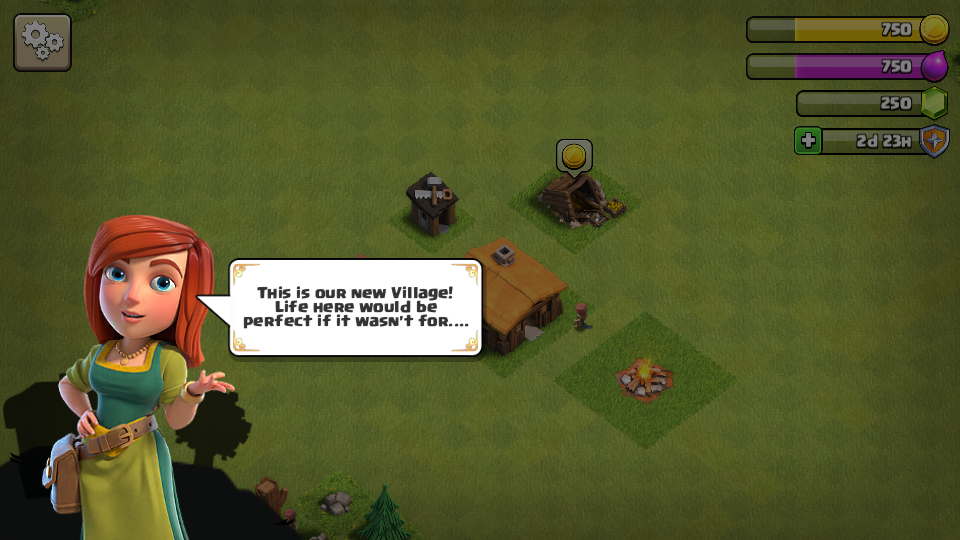
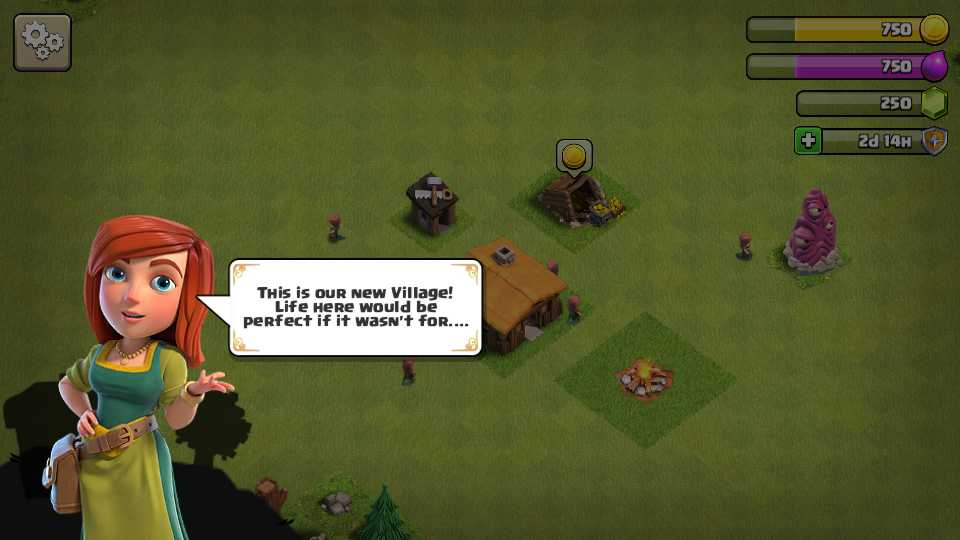
Document verified release downloads and final device captures

diff --git a/DOWNLOADS.md b/DOWNLOADS.md
@@ -6,14 +6,14 @@ Preview: USB/sda boot only, 16 GB or larger USB disk; not SD/mmc. Physical first
 
 | File | Size | SHA-256 |
 |---|---:|---|
[7 lines of base64/hex data omitted]
 
-[SHA256SUMS](https://github.com/582835293/IrisBox/releases) · [release-manifest.json](https://github.com/582835293/IrisBox/releases)
+[SHA256SUMS](https://github.com/582835293/IrisBox/releases/download/v0.1.5-preview/SHA256SUMS) · [release-manifest.json](https://github.com/582835293/IrisBox/releases/download/v0.1.5-preview/release-manifest.json)
 
 ## Drive mirrors
 

diff --git a/DOWNLOADS.zh-CN.md b/DOWNLOADS.zh-CN.md
@@ -6,14 +6,14 @@
 
 | 文件 | 大小 | SHA-256 |
 |---|---:|---|
[7 lines of base64/hex data omitted]
 
-[SHA256SUMS](https://github.com/582835293/IrisBox/releases) · [release-manifest.json](https://github.com/582835293/IrisBox/releases)
+[SHA256SUMS](https://github.com/582835293/IrisBox/releases/download/v0.1.5-preview/SHA256SUMS) · [release-manifest.json](https://github.com/582835293/IrisBox/releases/download/v0.1.5-preview/release-manifest.json)
 
 ## 网盘镜像
 

diff --git a/docs/en/comparison.md b/docs/en/comparison.md
@@ -41,3 +41,11 @@ Boot a ROM which actually omits optional components, with new userdata. Persiste
 ## 0.1.3: follow the upstream identity isolation work
 
 The previous local Iris project integrated User namespaces on 2026-10-20, after the e13 extraction checkpoint. This port follows its complete ownership/ACL/capability, metacopy, cgroup, network, display, Magisk and alarm adaptations. IrisBox additionally needs a private pre-pivot alias for its 0700 Host data root and a mapped PCM connector. Its persistent UID range is disjoint. See [the migration guide](userns.md).
+
+## 0.1.5: real applications expose isolation dependencies
+
+UID/GID maps alone do not establish usable Android storage. Trace an ordinary getExternalFilesDir request through StorageManager, vold PrepareAppDirFromRoot/SetQuotaProjectId and the kernel fileattr check. A populated project-ID map still cannot override the matched kernel's prohibition on noninitial-namespace quota changes. The adapter handles only that unsupported tagging operation, retaining ownership/ACL failures and mapped credentials. Test first directory creation plus write/read, rather than treating map existence as success; see engine/native/storage/README.md.
+
+Physical-camera isolation also needs a functioning framework contract. YouTube queried camera count during startup; removing cameraserver blocked a worker and the main thread until ANR. Retaining the framework service with physical providers disabled returns zero devices. Following the actual ANR lock owner explains the failure better than increasing timeouts or patching YouTube.
+
+Finally, changing a package identity changes its UID and authorization. Validate exclusive ownership before revoking a retired UID, request normal grants for new packages, and check absolute controller paths, display pointers, audio RC, JNI names and generated binaries. Stopped full snapshots and transaction rollback are part of the migration design.

diff --git a/docs/05_对比与学习.md b/docs/05_对比与学习.md
@@ -51,3 +51,11 @@
 ## 0.1.3：追随旧项目补齐身份隔离
 
 旧项目2026-10-20已完成User namespace整合；本次提取时的e13属于更早检查点，不能继续把它当成旧项目最新能力。移植必须成套处理属主/ACL/capability、Overlay metacopy、受委派cgroup、网络表身份、显示FD交接、Magisk挂载及闹钟兼容。虹膜空间另有0700私有根和PCM桥，不能照抄旧路径或只加CLONE_NEWUSER。实现与迁移说明见09；旧工程只读，UID范围和持久数据完全分开。
+
+## 0.1.5：用真实应用发现身份隔离的配套缺口
+
+User namespace不是只补uid_map/gid_map。项目ID也有独立映射；而匹配内核仍禁止容器改变项目配额状态。沿`ProbeActivity.getExternalFilesDir → StorageManager → vold.PrepareAppDirFromRoot → SetQuotaProjectId → 内核fileattr_set_prepare`追踪，能解释为何App有普通UID权限却拿不到目录。最终适配仅处理不支持的项目配额设置，不能忽略chown、ACL或权限失败，更不能让vold回到Host UID0。用普通App首次创建目录并写入/读回，比“映射表存在”更能证明可用，见`engine/native/storage/README.md`。
+
+同样，停用物理摄像头不等于可以删除整个相机框架服务。YouTube启动时查询设备数，缺服务会等到ANR；保留框架、禁用物理provider并返回0台设备才能表达不支持。学习时从ANR主线程锁追到后台线程的Camera.getNumberOfCameras，再验证服务返回，避免用增加超时或修改应用掩盖系统缺项。
+
+命名迁移则是数据/权限迁移问题：新包拥有新UID，需要正常重新授权；旧授权只在独有UID和归属核验后撤销。后台绝对路径、显示指针、音频RC、JNI类名和已生成二进制都要检查，不能只替换README中的品牌。完整停机快照与事务回退属于迁移本身，而非事后补救。

diff --git a/docs/en/validation.md b/docs/en/validation.md
@@ -118,3 +118,5 @@ The owner explicitly allowed clearing only Angry Birds 2. Its CE/DE/external fir
 Final e25 dual-instance regression repeated namespace/DAC checks, real fullscreen keyboard/swipe/reentry, no-INTERNET HTTPS/DNS rejection, separate file round trips and independent audio. Both preview sequences advanced after the capture. OOM-kill counters were zero, but the Google guest reached its 2-GiB ceiling with memory-limit hits recorded; heavy dual-game performance is not promised. Final account fingerprint, GSF identity and revision checks passed; previous-project scripts/config/registry and Host boot stayed unchanged, with old guests stopped.
 
 The renamed ordinary QA app needed its own Guest Magisk grant. Enabling only com.irisbox.probe through the normal Superuser UI made its ordinary UID10104 su return Guest UID0 while strict Host mapping remained unprivileged. No grant row was inserted directly. Language selection persisted across App restart; Chinese was restored after testing.
+
+The 0.1.5 preview is public. Server digests/sizes matched the APK, SHA256SUMS and final manifest; unchanged large resources reuse real verified v0.1.4 URLs. A normal Clash idle timeout occurred during publication work. After the original Reload game flow and cancellation of cloud-village overwrite, actual Viewer input advanced the welcome dialogue to the next line. The published Clash capture now shows that final e25 test, not the idle-disconnect dialog.

diff --git a/docs/06_验收记录.md b/docs/06_验收记录.md
@@ -213,3 +213,5 @@ Google组件已在设备内私有备份，另备份商店后仅用标准pm clear
 最终e25双开再次通过严格映射、真实全屏键盘/滑动/重入、无INTERNET的HTTPS/DNS拒绝、同名文件隔离及独立音频。两个预览序列在截图后继续增加；cgroup OOM-kill均为0，但Google实例达到过2GiB上限且有触及内存上限的计数，不能承诺大型双游戏性能。实例2GSF ID、账号私有HMAC和revision最终核验保持，原独立项目脚本/配置/注册表及Host boot保持，旧实例未重启。
 
 新包com.irisbox.probe需要自己的实例Magisk授权；通过正常Magisk Superuser界面仅打开该项后，普通UID10104的su实际返回Guest uid0，严格映射仍为Host普通UID范围。没有向授权数据库插入grant。中英文重开保存验证通过，测试后恢复中文。
+
+0.1.5预览发行已公开：本版APK、SHA256SUMS及资源清单均完成GitHub服务器摘要核验；大型内容未变，下载页复用已公开0.1.4附件的真实地址与相同SHA-256。最终e25部落冲突因测试间歇出现过正常闲置断线；按原版Reload game重连，取消会覆盖当前进度的云端村庄载入，通过真实Viewer点击把欢迎语推进到下一句，最终图片更新为该次实测。没有把闲置断线截图当作交互通过。

diff --git a/docs/images/README.md b/docs/images/README.md
@@ -13,7 +13,7 @@ These are real device captures published with the owner's explicit permission. O
 
 ## 2026-10-26 新增图片
 
-- `clash-village.png`：实例2《部落冲突》18.647.5的新手村庄与教程对话；实际通过虹膜空间全屏窗口点击推进。未包含年龄页面、账号或玩家标识；不代表部落战、支付或长期对战测试通过。
+- `clash-village.png`：实例2《部落冲突》18.647.5的新手村庄与教程对话；最终e25正常重连后，通过虹膜空间全屏窗口点击，将欢迎对话推进到下一句。未包含年龄页面、账号或玩家标识；不代表部落战、支付或长期对战测试通过。
 - `youtube-playback.png`：YouTube 21.42.243 播放 Blender 官方《Big Buck Bunny》的原始视频区域，确定性裁去导航、账号及推荐区。素材归 Blender Foundation，原片和授权信息见 [官方视频](https://www.youtube.com/watch?v=aqz-KE-bpKQ)。
 - `dual-instances.png`：0.1.5/e25 两个原实例同时运行，内存上限分别768/2048MiB；两张实时缩略图、桌面状态及原计数8/1可见。仅裁去宿主系统栏。最终e25已重新执行隔离、输入、网络、文件与音频回归；截图后两个预览序列继续增加。
 
